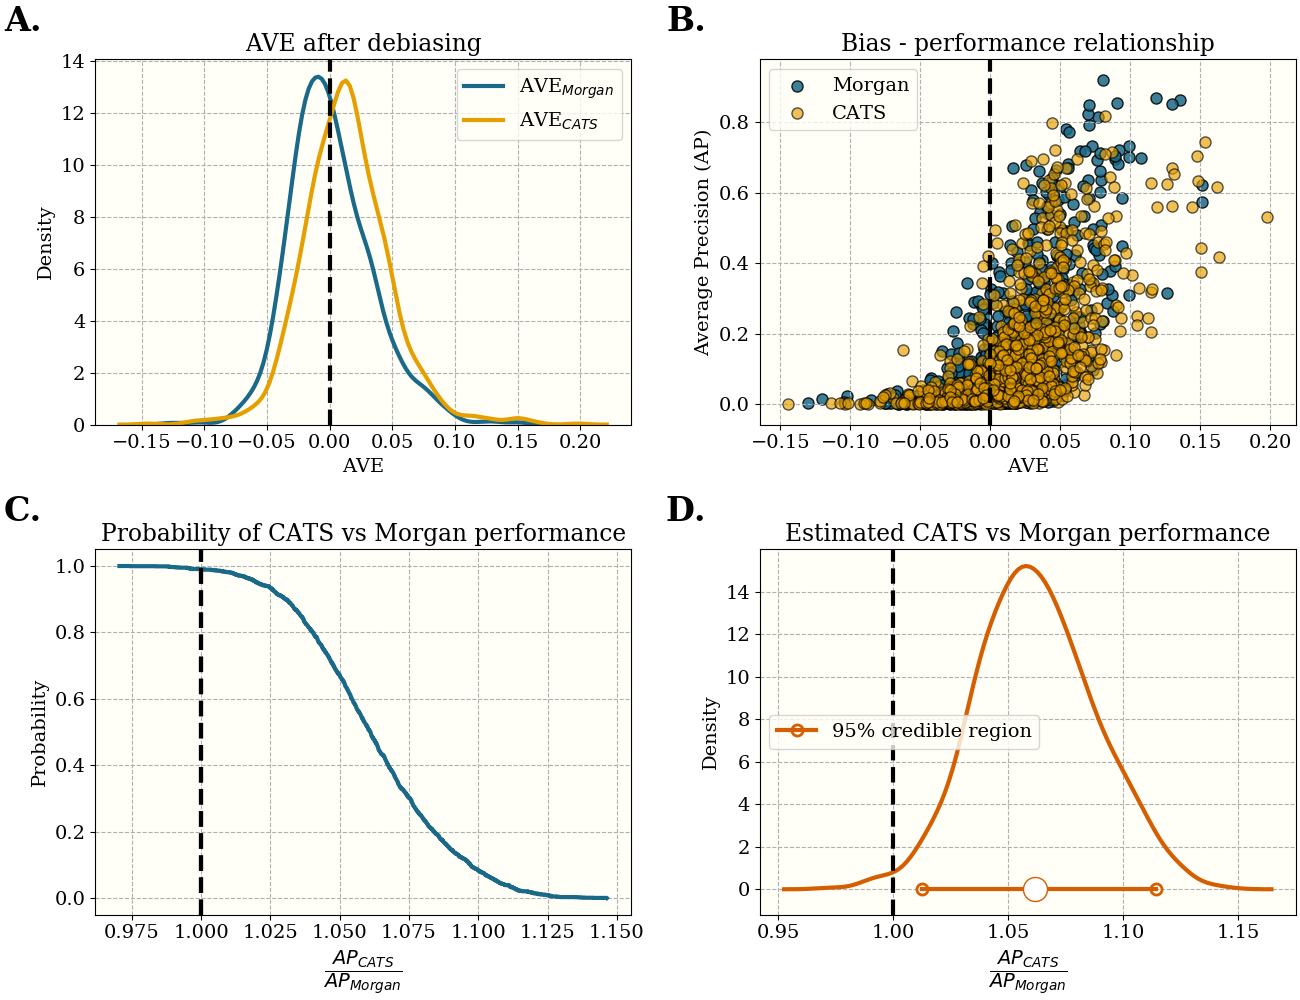
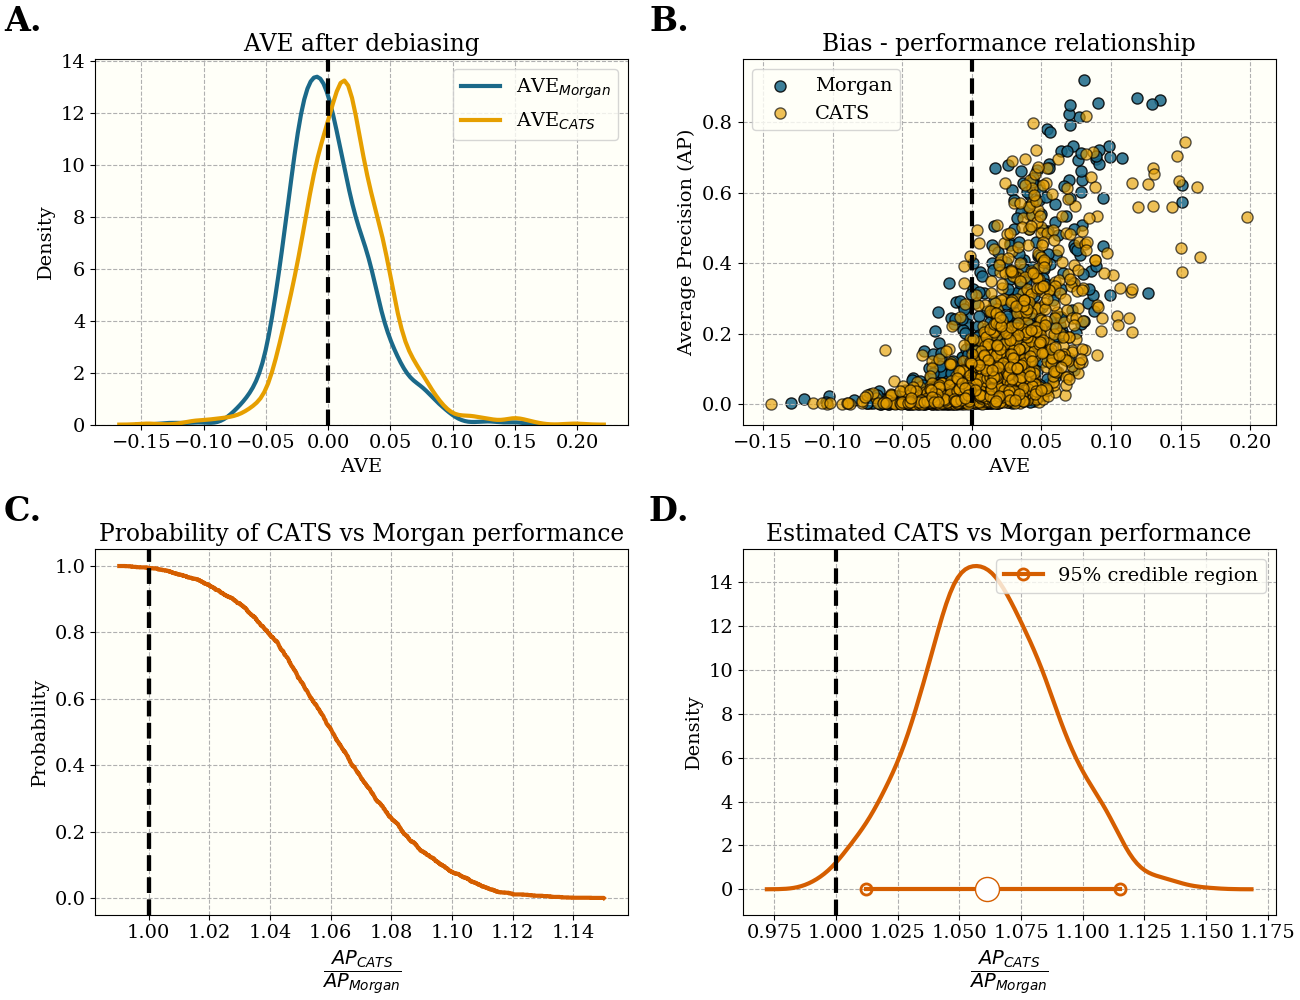
typo

diff --git a/code/graph_fp_comparison_figures.py b/code/graph_fp_comparison_figures.py
@@ -89,8 +89,8 @@ N = len(Z)
 H,X1 = np.histogram( Z, bins = 3000, density=True)
 dx = X1[1] - X1[0]
 F1 = np.cumsum(H)*dx
-ax[1,0].plot(X1[1:], 1-F1)
-ax[1,0].axvline(1, c='k', linestyle='--')
+ax[1,0].plot(X1[1:], 1-F1, c='C5')
+ax[1,0].axvline(1, c='k', linestyle='--',)
 ax[1,0].set_ylabel('Probability')
 ax[1,0].set_xlabel('$\dfrac{AP_{CATS}}{AP_{Morgan}}$')
 ax[1,0].set_title('Probability of CATS vs Morgan performance')
